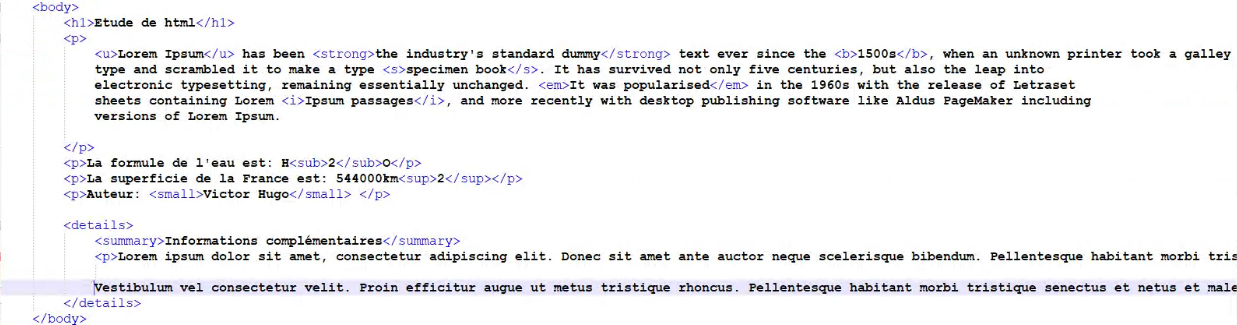
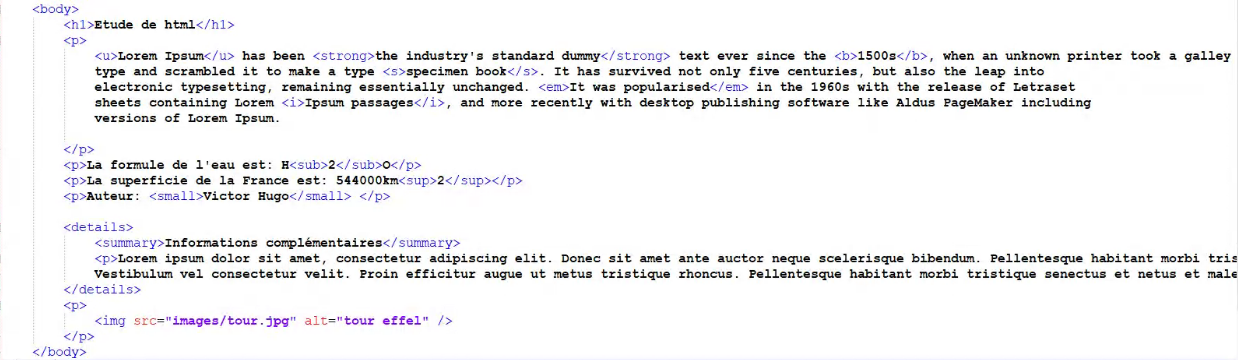
ajout de exemple3

diff --git a/front/html/exemple/05-01/exemple3.html b/front/html/exemple/05-01/exemple3.html
@@ -1,0 +1,48 @@
+<!DOCTYPE html>
+<html lang="fr">
+    
+    <head> <!--en-tête-->
+
+        <meta charset="UTF-8"> <!--encodage, c'est important-->
+        <meta name="description" content="description de la page"/>
+        <meta name="keywords" content="dwwm, tai, secretariat"/>
+        <title>Premiere fois</title> <!--titre de la page-->
+        <link href="style.css" rel="stylesheet" />
+        <script src="script.js"> </script>
+
+    </head>
+
+    <body>
+
+        <hl>Etude de html</hl>
+        
+        <p>
+        <u>Lerem Ipsum</u> has been <strong>the industry's standard dummy</strong> text ever since the <b>1500s</b>, when an unknown printer took a galley
+        type and scrambled it to make a type <s>specimen book</s>. It has survived not only five centuries, but also the leap into
+        electronic typesetting, remaining essentially unchanged. <em It was popularised</em> in the 1960s with the release of Letraset
+        sheets containing Lorem <i>Ipsum passages</i>, and more recently with desktop publishing software like Aldus PageMaker including
+        versions of Lorem Ipsum.
+        
+        </p>
+        
+        <p>La formule de l'eau est: H<sub>2</sub>0</p>
+        
+        <p>La superficie de la France est: 544000km<sup>2</sup></p>
+        
+        <p>Auteur: <small>Victor Hugo</small> </p>
+        
+        <details>
+        <summary>Informations complémentaires</summary>
+        <p>Lerem ipsum dolor sit amet, consectetur adipiscing elit. Donec sit amet ante auctor neque scelerisque bibendum. Pellentesque habitant morbi triz
+        Vestibulum vel consectetur velit. Proin efficitur augue ut metus tristique rhoncus. Pellentesque habitant morbi tristique senectus et netus et male
+        
+        </details>
+        
+        <p>
+        <img src="images/tour.jpg"” alt="tour effel" />
+        
+        </p>
+        
+        </body>
+    </body>
+</html>
